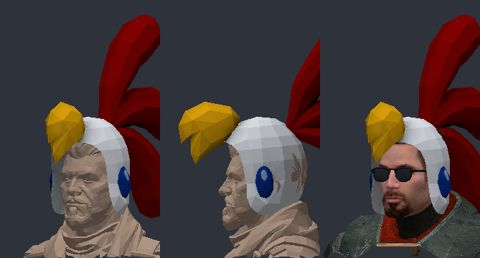
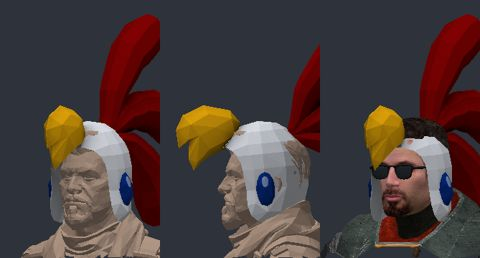
[create] hats: final fits for cuboneskull and billyhatcherhat; review done, 102 hats

diff --git a/create/hats/HATS.md b/create/hats/HATS.md
@@ -189,9 +189,9 @@ moves with it through its `fit` choice).
 | `rubikscube` | autofit mask (scale 0.50) | kind mask | 4 |
 | `teamrockethat` | autofit hat (scale 1.36) |  | 4 |
 | `turkey` | autofit hat (scale 1.07) | offset [2.0, 0, 4.0] | 4 |
-| `billyhatcherhat` | autofit hat (scale 0.85) | offset [-8.0, 0, -4.0], scale 1.1 | 6 |
+| `billyhatcherhat` | autofit hat (scale 0.85) | offset [-8.0, 0, -5.0], scale 1.1 | 7 |
 | `blackmage_hat` | autofit hat (scale 0.40) |  | 4 |
-| `cuboneskull` | autofit mask (scale 0.84) | offset [5.0, 0, 1.0], rotate [30, 0, 0], scale 1.65 | 5 |
+| `cuboneskull` | autofit mask (scale 0.84) | offset [4.75, 0, 0.0], rotate [30, 0, 0], scale 1.65 | 6 |
 | `generalpepperhat` | autofit hat (scale 0.83) | offset [3.0, 0, 0.0] | 4 |
 | `keatonmask` | autofit mask (scale 0.60) | offset [2.0, 0, 2.0], scale 1.2 | 4 |
 | `klonoahat` | autofit hat (scale 0.89) | offset [2.0, 0, 0.0] | 4 |
